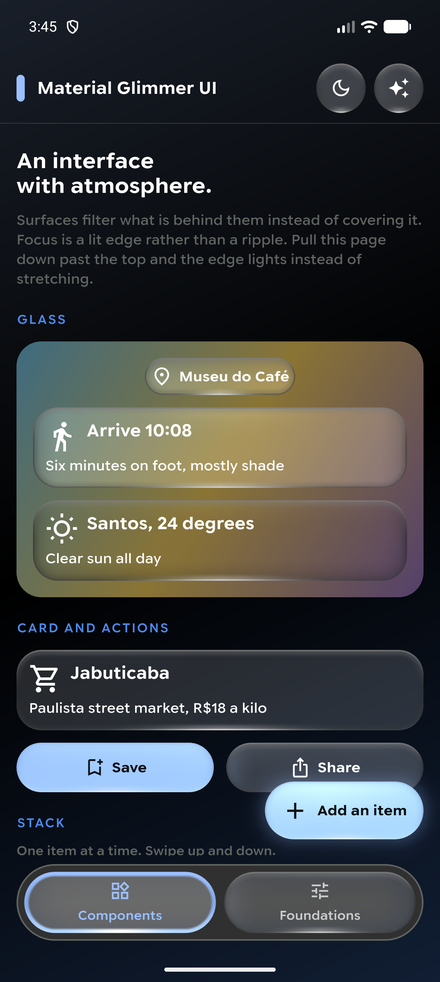
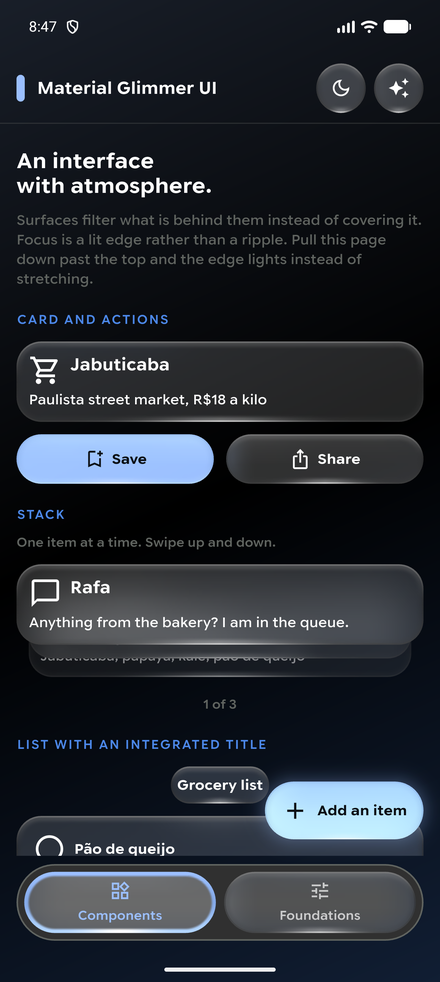
Drop the glasses demo, and give the refresh a state worth watching
The gallery led with a section labelled Glass: frosted cards over a
vivid gradient. It looked good and it was the wrong argument. That
composition is a pass-through mock, which is a display-glasses idea; a
phone app has nothing behind the screen, and dressing one up to look
like it does was selling the kit on something it is not. The gallery now
opens on cards, actions, a stack and a list, which is what a phone
screen actually holds.

Removing it took GlimmerTitleChip's only demo with it, and the section
below had always been labelled "List with an integrated title" while
being a bare loop of GlimmerListItem with no title. Both are fixed by
using GlimmerList with its title, which is what the label promised.

The refresh, separately. Releasing a pull ran ambientEnvelope from zero,
and that envelope starts at zero, so the edge dropped from whatever the
pull had reached straight to the working floor of 0.55 in a single
frame, then sawed between 0.55 and full every two seconds. A jump at the
exact moment the finger lifts reads as a fault, and the bottom edge has
no equivalent, which is why only the top looked broken.

The working state is now one continuous value. The pull eases into the
hold over 260 ms instead of snapping to it, and while the work runs a
tapered highlight travels the lit edge on a loop. That is the same shape
GlimmerProgressBar sends along its track and GlimmerCircularProgress
sends around its ring, so "still going" looks the same everywhere in the
[…]

diff --git a/lib/src/glimmer_overscroll.dart b/lib/src/glimmer_overscroll.dart
@@ -145,6 +145,7 @@ class _GlimmerOverscrollPainter extends CustomPainter {
     required this.tint,
     required this.leading,
     required this.trailing,
+    this.travel,
   });
 
   final AxisDirection axisDirection;
@@ -153,6 +154,14 @@ class _GlimmerOverscrollPainter extends CustomPainter {
   /// Which way contrast runs on this ground. See
   /// [GlimmerColors.highlightTint].
   final Color tint;
+
+  /// Where a travelling highlight sits along the leading edge, from 0 to 1,
+  /// or null when nothing is working.
+  ///
+  /// This is how the kit says "still going": the same tapered highlight
+  /// [GlimmerProgressBar] sends along its track and [GlimmerCircularProgress]
+  /// sends around its ring, on the edge the list ran into.
+  final double? travel;
   final double leading;
   final double trailing;
 
@@ -260,6 +269,35 @@ class _GlimmerOverscrollPainter extends CustomPainter {
           stops: const [0, 0.5, 1],
         ).createShader(line),
     );
+    // While something is working, a highlight travels the line. It is the same
+    // shape the progress bar sends along its track: wider than the line is
+    // thick, tapered at both ends, so it reads as light passing rather than as
+    // a mark sliding. The line underneath holds steady, so nothing about this
+    // state is a jump.
+    final position = travel;
+    if (position != null) {
+      final span = (to - from) * 0.36;
+      if (span > 0) {
+        final centre = from - (span / 2) + ((to - from + span) * position);
+        final band = vertical
+            ? Rect.fromLTWH(centre - (span / 2), line.top, span, line.height)
+            : Rect.fromLTWH(line.left, centre - (span / 2), line.width, span);
+        canvas.drawRect(
+          band,
+          Paint()
+            ..shader = LinearGradient(
+              begin: vertical ? Alignment.centerLeft : Alignment.topCenter,
+              end: vertical ? Alignment.centerRight : Alignment.bottomCenter,
+              colors: [
+                color.withValues(alpha: 0),
+                Color.lerp(color, tint, 0.55)!.withValues(alpha: 0.95),
+                color.withValues(alpha: 0),
+              ],
+              stops: const [0, 0.5, 1],
+            ).createShader(band),
+        );
+      }
+    }
   }
 
   /// How much of the edge the line covers at a given strength.
@@ -275,6 +313,7 @@ class _GlimmerOverscrollPainter extends CustomPainter {
       old.trailing != trailing ||
       old.color != color ||
       old.tint != tint ||
+      old.travel != travel ||
       old.axisDirection != axisDirection;
 }
 
@@ -328,11 +367,19 @@ class GlimmerRefreshIndicator extends StatefulWidget {
   /// arms one is a deliberate gesture rather than the end of a fling.
   static const triggerDistance = 120.0;
 
-  /// The floor the light holds at while the refresh runs.
+  /// How bright the edge holds while the refresh runs.
   ///
-  /// It breathes between this and full on [GlimmerMotion.ambientEnvelope], so
-  /// a list that is working never looks like a list that has simply stopped.
-  static const workingFloor = 0.55;
+  /// The pull eases to this rather than snapping to it. Dropping straight from
+  /// whatever the pull reached to a fixed level is a visible discontinuity at
+  /// the exact moment the finger lifts, which reads as a fault rather than as
+  /// a state change.
+  static const workingLevel = 0.7;
+
+  /// How long the highlight takes to travel the edge once while working.
+  static const travelDuration = Duration(milliseconds: 1100);
+
+  /// How long the edge takes to ease from the pull into the working hold.
+  static const settleIntoWork = Duration(milliseconds: 260);
 
   @override
   State<GlimmerRefreshIndicator> createState() =>
@@ -344,9 +391,9 @@ class _GlimmerRefreshIndicatorState extends State<GlimmerRefreshIndicator>
   late final AnimationController _pull = AnimationController.unbounded(
     vsync: this,
   )..addListener(_repaint);
-  late final AnimationController _pulse = AnimationController(
+  late final AnimationController _travel = AnimationController(
     vsync: this,
-    duration: GlimmerMotion.ambientPulseDuration,
+    duration: GlimmerRefreshIndicator.travelDuration,
   )..addListener(_repaint);
 
   bool _armed = false;
@@ -359,7 +406,7 @@ class _GlimmerRefreshIndicatorState extends State<GlimmerRefreshIndicator>
   @override
   void dispose() {
     _pull.dispose();
-    _pulse.dispose();
+    _travel.dispose();
     super.dispose();
   }
 
@@ -402,16 +449,24 @@ class _GlimmerRefreshIndicatorState extends State<GlimmerRefreshIndicator>
   Future<void> _run() async {
     _armed = false;
     _refreshing = true;
+    // Eased, not assigned. The edge is already lit at whatever the pull
+    // reached, and the working hold is a different level; moving between them
+    // in one frame is the jump that reads as a glitch.
     _pull
       ..stop()
-      ..value = 1;
-    _pulse.repeat();
+      ..animateTo(
+        GlimmerRefreshIndicator.workingLevel,
+        duration: GlimmerRefreshIndicator.settleIntoWork,
+        curve: GlimmerMotion.focusCurve,
+      );
+    _travel.repeat();
     try {
       await widget.onRefresh();
     } finally {
       if (mounted) {
-        _pulse.stop();
-        _pulse.value = 0;
+        _travel
+          ..stop()
+          ..value = 0;
         _refreshing = false;
         _settle();
       }
@@ -419,11 +474,9 @@ class _GlimmerRefreshIndicatorState extends State<GlimmerRefreshIndicator>
   }
 
   /// How bright the edge is right now.
-  double get _strength {
-    if (!_refreshing) return _pull.value.clamp(0.0, 1.0);
-    const floor = GlimmerRefreshIndicator.workingFloor;
-    return floor + ((1 - floor) * GlimmerMotion.ambientEnvelope(_pulse.value));
-  }
+  ///
+  /// One value for both states, so nothing jumps when the state changes.
+  double get _strength => _pull.value.clamp(0.0, 1.0);
 
   @override
   Widget build(BuildContext context) {
@@ -439,6 +492,7 @@ class _GlimmerRefreshIndicatorState extends State<GlimmerRefreshIndicator>
             tint: colors.highlightTint,
             leading: _strength,
             trailing: 0,
+            travel: _refreshing ? _travel.value : null,
           ),
           child: widget.child,
         ),

diff --git a/example/lib/main.dart b/example/lib/main.dart
@@ -289,52 +289,6 @@ class _ComponentsPageState extends State<_ComponentsPage> {
           ),
           SizedBox(height: spacing.extraLarge),
 
-          // Surfaces over something busy, which is where glass is actually
-          // visible.
-          const _SectionLabel('Glass'),
-          SizedBox(height: spacing.medium),
-          ClipRRect(
-            borderRadius: tokens.shapes.medium,
-            child: Stack(
-              children: [
-                const _Backdrop(),
-                Padding(
-                  padding: EdgeInsets.all(spacing.large),
-                  child: Column(
-                    children: [
-                      const GlimmerTitleChip(
-                        'Museu do Café',
-                        leadingIcon: Icons.place_outlined,
-                      ),
-                      SizedBox(
-                        height:
-                            GlimmerTitleChipDefaults.associatedContentSpacing(
-                                context),
-                      ),
-                      const GlimmerCard(
-                        title: 'Arrive 10:08',
-                        supportingText: 'Six minutes on foot, mostly shade',
-                        leadingIcon: Icons.directions_walk,
-                      ),
-                      SizedBox(height: spacing.medium),
-                      // No tint at all: the surface adds nothing and only blurs
-                      // what is behind it, so all there is to see is the backdrop
-                      // out of focus and the lit edge around it.
-                      const GlimmerCard(
-                        opacity: 0,
-                        blur: 22,
-                        title: 'Santos, 24 degrees',
-                        supportingText: 'Clear sun all day',
-                        leadingIcon: Icons.wb_sunny_outlined,
-                      ),
-                    ],
-                  ),
-                ),
-              ],
-            ),
-          ),
-          SizedBox(height: spacing.extraLarge),
-
           const _SectionLabel('Card and actions'),
           SizedBox(height: spacing.medium),
           GlimmerCard(
@@ -400,21 +354,30 @@ class _ComponentsPageState extends State<_ComponentsPage> {
           SizedBox(height: spacing.extraLarge),
           const _SectionLabel('List with an integrated title'),
           SizedBox(height: spacing.medium),
-          for (final item in _groceries) ...[
-            GlimmerListItem(
-              label: item,
-              leadingIcon: _bought.contains(item)
-                  ? Icons.check_circle
-                  : Icons.circle_outlined,
-              selected: _bought.contains(item),
-              onTap: () => setState(
-                () => _bought.contains(item)
-                    ? _bought.remove(item)
-                    : _bought.add(item),
-              ),
-            ),
-            SizedBox(height: spacing.medium),
-          ],
+          // The title is the list's own, drawn as a GlimmerTitleChip above the
+          // rows. shrinkWrap and NeverScrollable because this one is inside
+          // the page's scroll view rather than owning it.
+          GlimmerList(
+            title: 'Grocery list',
+            shrinkWrap: true,
+            physics: const NeverScrollableScrollPhysics(),
+            padding: EdgeInsets.zero,
+            children: [
+              for (final item in _groceries)
+                GlimmerListItem(
+                  label: item,
+                  leadingIcon: _bought.contains(item)
+                      ? Icons.check_circle
+                      : Icons.circle_outlined,
+                  selected: _bought.contains(item),
+                  onTap: () => setState(
+                    () => _bought.contains(item)
+                        ? _bought.remove(item)
+                        : _bought.add(item),
+                  ),
+                ),
+            ],
+          ),
           SizedBox(height: spacing.large),
           const _SectionLabel('Buttons'),
           SizedBox(height: spacing.medium),

diff --git a/example/test/widget_test.dart b/example/test/widget_test.dart
@@ -4,12 +4,12 @@ import 'package:material_glimmer_ui/material_glimmer_ui.dart';
 import 'package:material_glimmer_ui_example/main.dart';
 
 void main() {
-  testWidgets('the gallery opens on the overview page', (tester) async {
+  testWidgets('the gallery opens on the components page', (tester) async {
     await tester.pumpWidget(const MaterialGlimmerGallery());
     await tester.pump(const Duration(seconds: 1));
 
     expect(find.text('Material Glimmer UI'), findsOneWidget);
-    expect(find.text('Museu do Café'), findsOneWidget);
+    expect(find.text('Jabuticaba'), findsOneWidget);
     expect(find.byType(GlimmerCard), findsWidgets);
   });
 
@@ -49,7 +49,9 @@ void main() {
     await tester.pump(const Duration(seconds: 1));
 
     Brightness brightnessInScope() =>
-        GlimmerTheme.of(tester.element(find.text('GLASS'))).colors.brightness;
+        GlimmerTheme.of(tester.element(find.text('CARD AND ACTIONS')))
+            .colors
+            .brightness;
 
     expect(brightnessInScope(), Brightness.dark);
 

diff --git a/README.md b/README.md
@@ -37,7 +37,7 @@ instead of clashing with it.
     <td width="50%"><img src="https://raw.githubusercontent.com/Adrianogba/material_glimmer_ui/main/doc/screenshots/hero-light.png" alt="The same screen on the light theme"></td>
   </tr>
   <tr>
-    <td colspan="2" align="center"><em>Surfaces filter the backdrop rather than covering it. The same screen on both grounds.</em></td>
+    <td colspan="2" align="center"><em>The same screen on both grounds. Cards, actions, a stack and a list with its own title.</em></td>
   </tr>
 </table>
 
